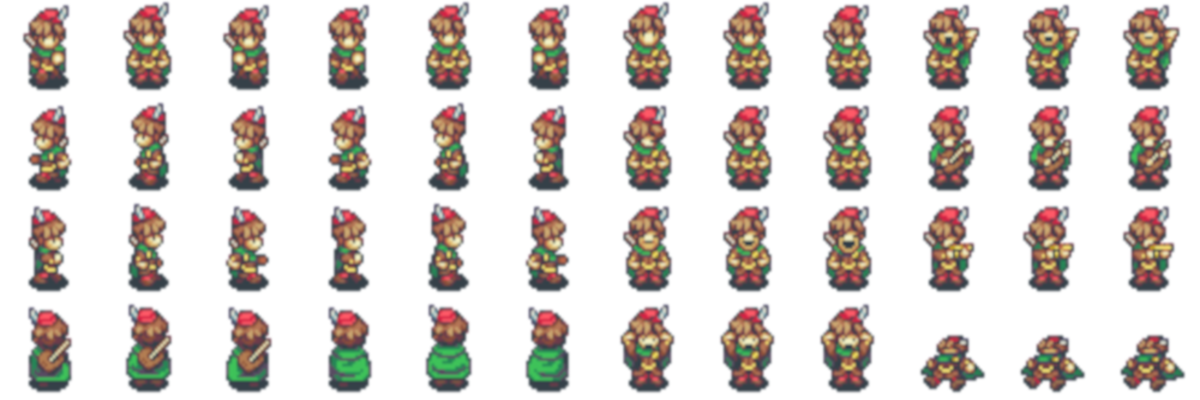
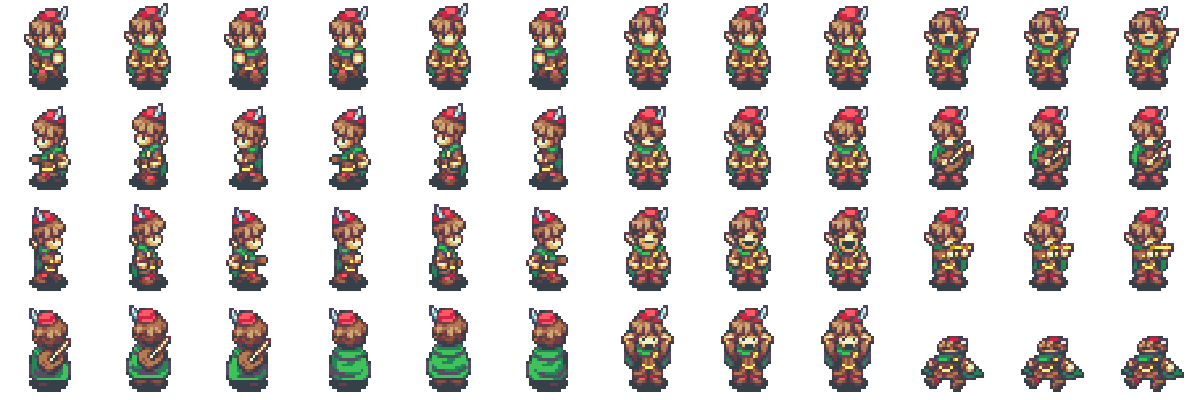
sprite cleanned and anime GUITAR

diff --git a/src/entities/hero/hero_event.c b/src/entities/hero/hero_event.c
@@ -17,15 +17,34 @@
 #include "stdio.h"
 #include "myrpg/define.h"
 
-bool player_move(hero_t *hero, int anim)
+static bool player_anim(hero_t *hero)
 {
-    sfIntRect rest = sfSprite_getTextureRect(hero->sprite);
+    sfIntRect rect = sfSprite_getTextureRect(hero->sprite);
 
-    rest.top = anim;
+    if (rect.left < 900) {
+        rect.left = 900;
+        rect.top = 100;
+    }
+    if (hero->animation_clock->time >= 0.20f) {
+        rect.left += 100;
+        if (rect.left == 1200)
+            rect.left = 900;
+        hero->animation_clock->time = 0;
+    }
+    sfSprite_setTextureRect(hero->sprite, rect);
+    return (true);
+}
+
+static bool player_move(hero_t *hero, int anim, sfIntRect rect)
+{
+    rect.top = anim;
+    if (rect.left > 300) {
+        rect.left = 0;
+    }
     if (hero->animation_clock->time >= 0.10f) {
-        rest.left += 100;
-        if (rest.left == 300)
-            rest.left = 0;
+        rect.left += 100;
+        if (rect.left == 300)
+            rect.left = 0;
         hero->animation_clock->time = 0;
     }
     if (hero->movement_clock->time >= 0.020f) {
@@ -35,7 +54,7 @@ bool player_move(hero_t *hero, int anim)
         anim == 300 ? hero->entity->pos.y -= 8 : 0;
         hero->movement_clock->time = 0;
     }
-    sfSprite_setTextureRect(hero->sprite, rest);
+    sfSprite_setTextureRect(hero->sprite, rect);
     return (true);
 }
 
@@ -43,13 +62,17 @@ bool handle_hero_events(game_t *game UNUSED,
     entity_t *entity UNUSED, sfEvent *event UNUSED)
 {
     hero_t *hero = entity->instance;
+    sfIntRect rect = sfSprite_getTextureRect(hero->sprite);
+
+    if (sfKeyboard_isKeyPressed(sfKeySpace) == sfTrue)
+        return (player_anim(hero));
     if (sfKeyboard_isKeyPressed(sfKeyDown) == sfTrue)
-        return (player_move(hero, 0));
+        return (player_move(hero, 0, rect));
     if (sfKeyboard_isKeyPressed(sfKeyLeft) == sfTrue)
-        return (player_move(hero, 100));
+        return (player_move(hero, 100, rect));
     if (sfKeyboard_isKeyPressed(sfKeyRight) == sfTrue)
-        return (player_move(hero, 200));
+        return (player_move(hero, 200, rect));
     if (sfKeyboard_isKeyPressed(sfKeyUp) == sfTrue)
-        return (player_move(hero, 300));
+        return (player_move(hero, 300, rect));
     return (false);
 }

diff --git a/src/entities/hero/hero.c b/src/entities/hero/hero.c
@@ -20,8 +20,8 @@
 void create_hero(game_t *game UNUSED, entity_t *entity)
 {
     hero_t *hero = malloc(sizeof(hero_t));
-    sfIntRect rect = IRECT(0, 0, 300, 400);
-    sfTexture *texture = create_texture(game, "asset/hero/bard_movement.png", &rect);
+    sfIntRect rect = IRECT(0, 0, 1200, 400);
+    sfTexture *texture = create_texture(game, "asset/hero/bard.png", &rect);
     sfVector2u window = sfRenderWindow_getSize(game->window);
 
     hero->entity = entity;
